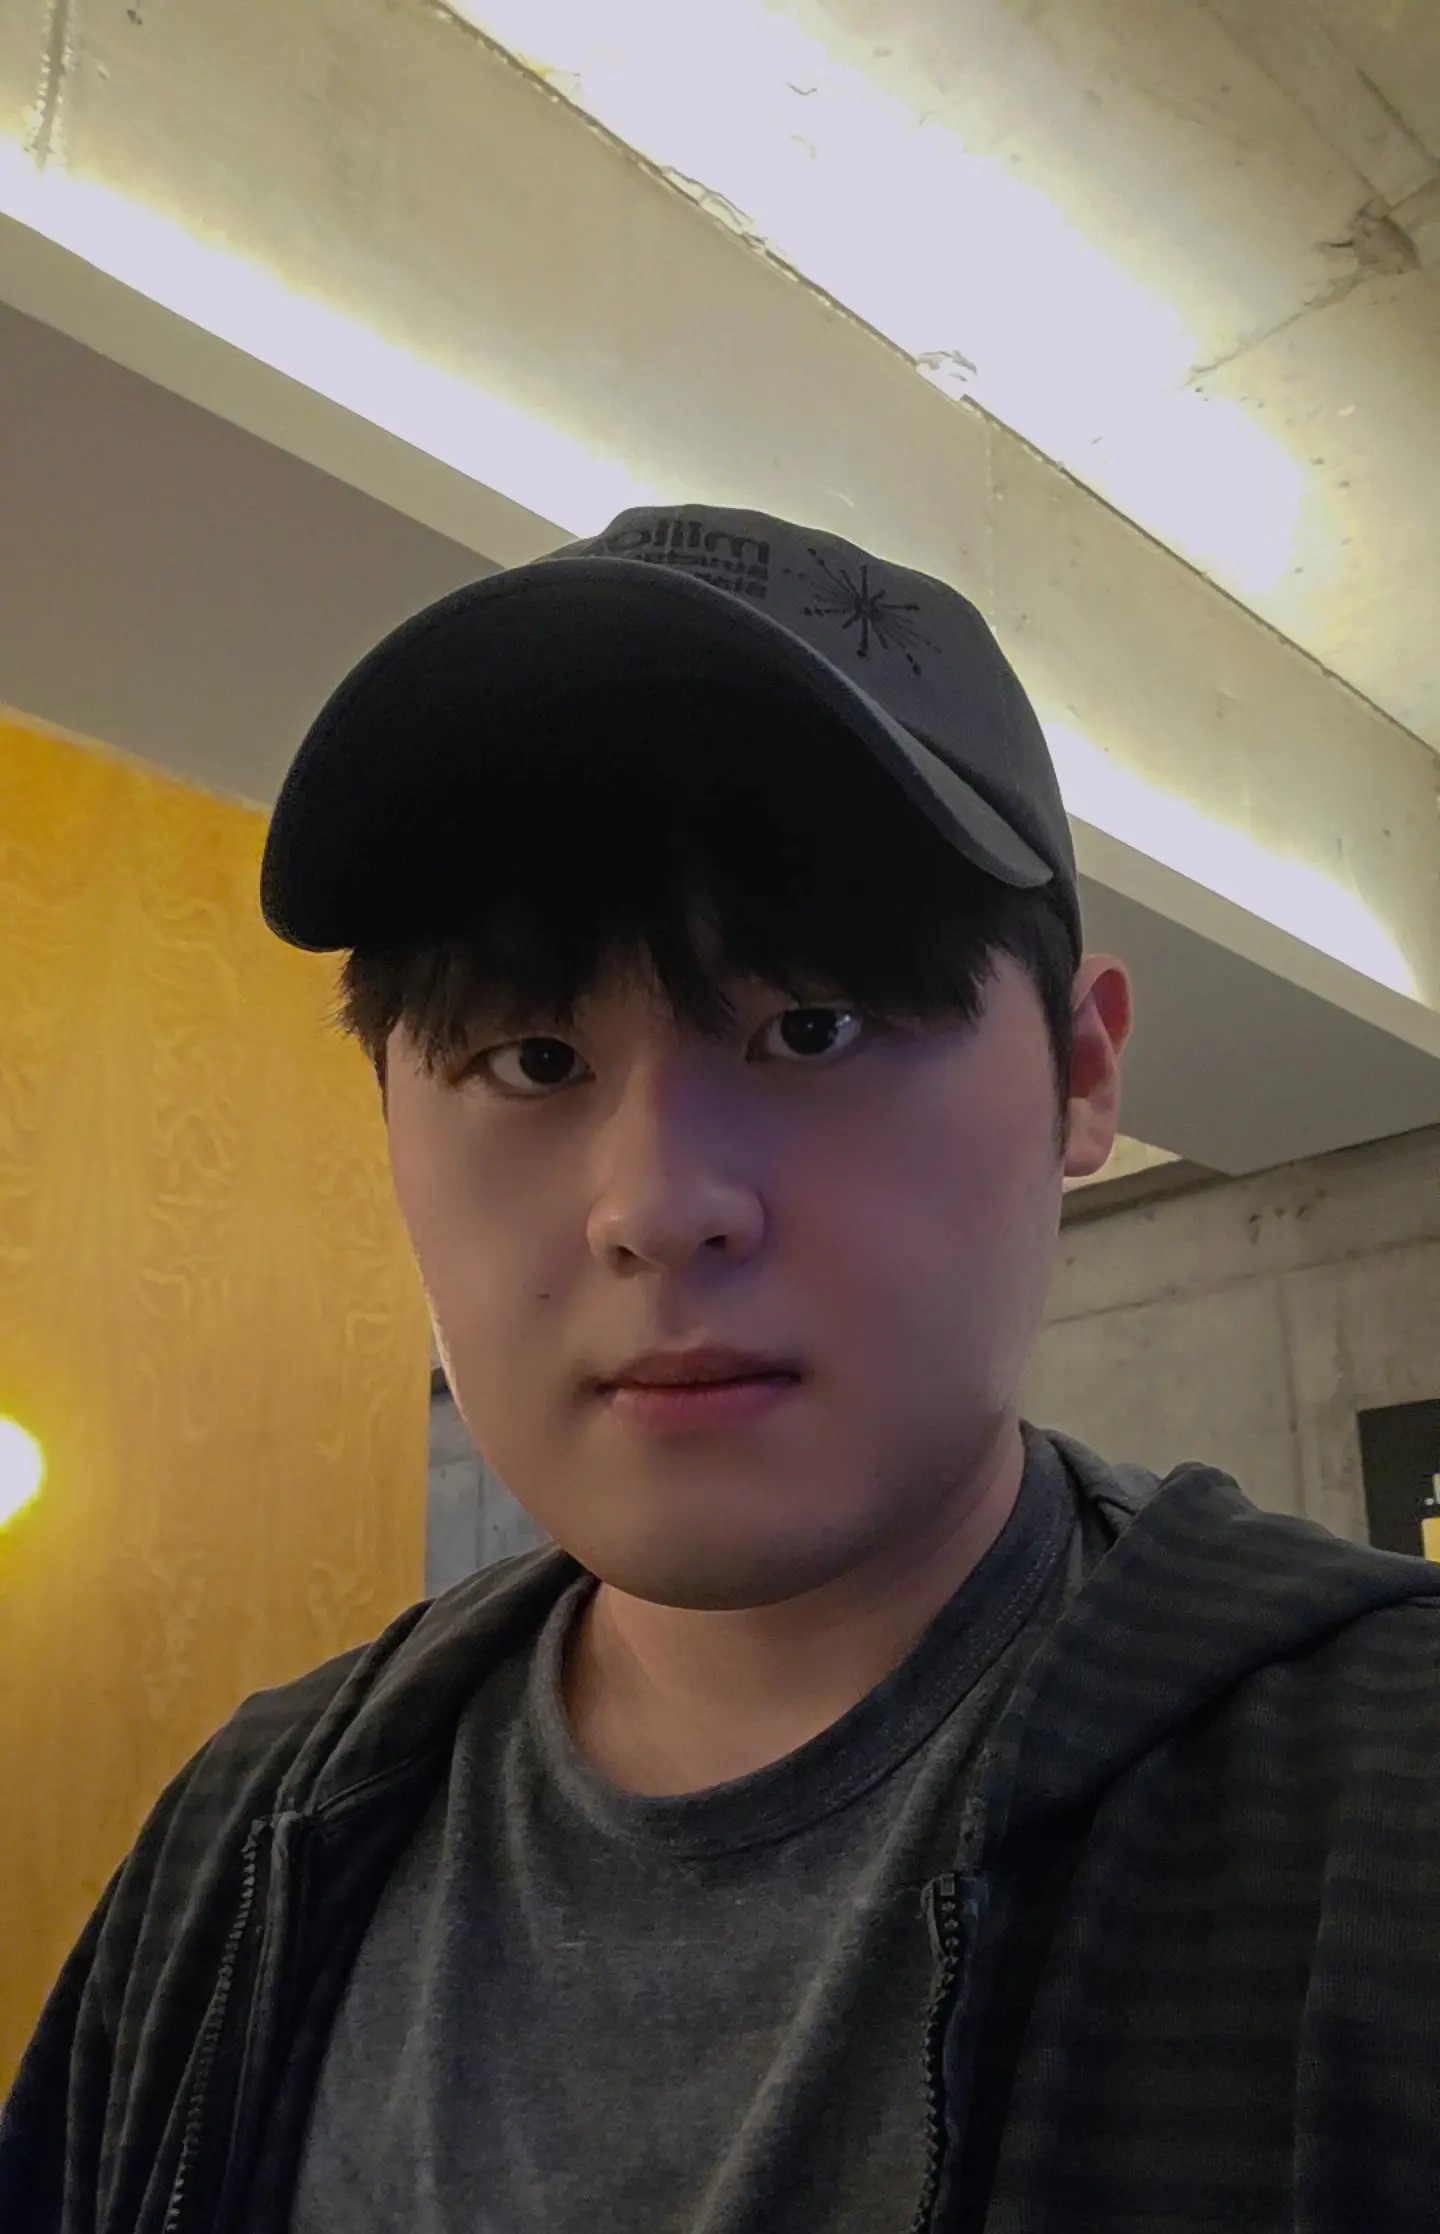
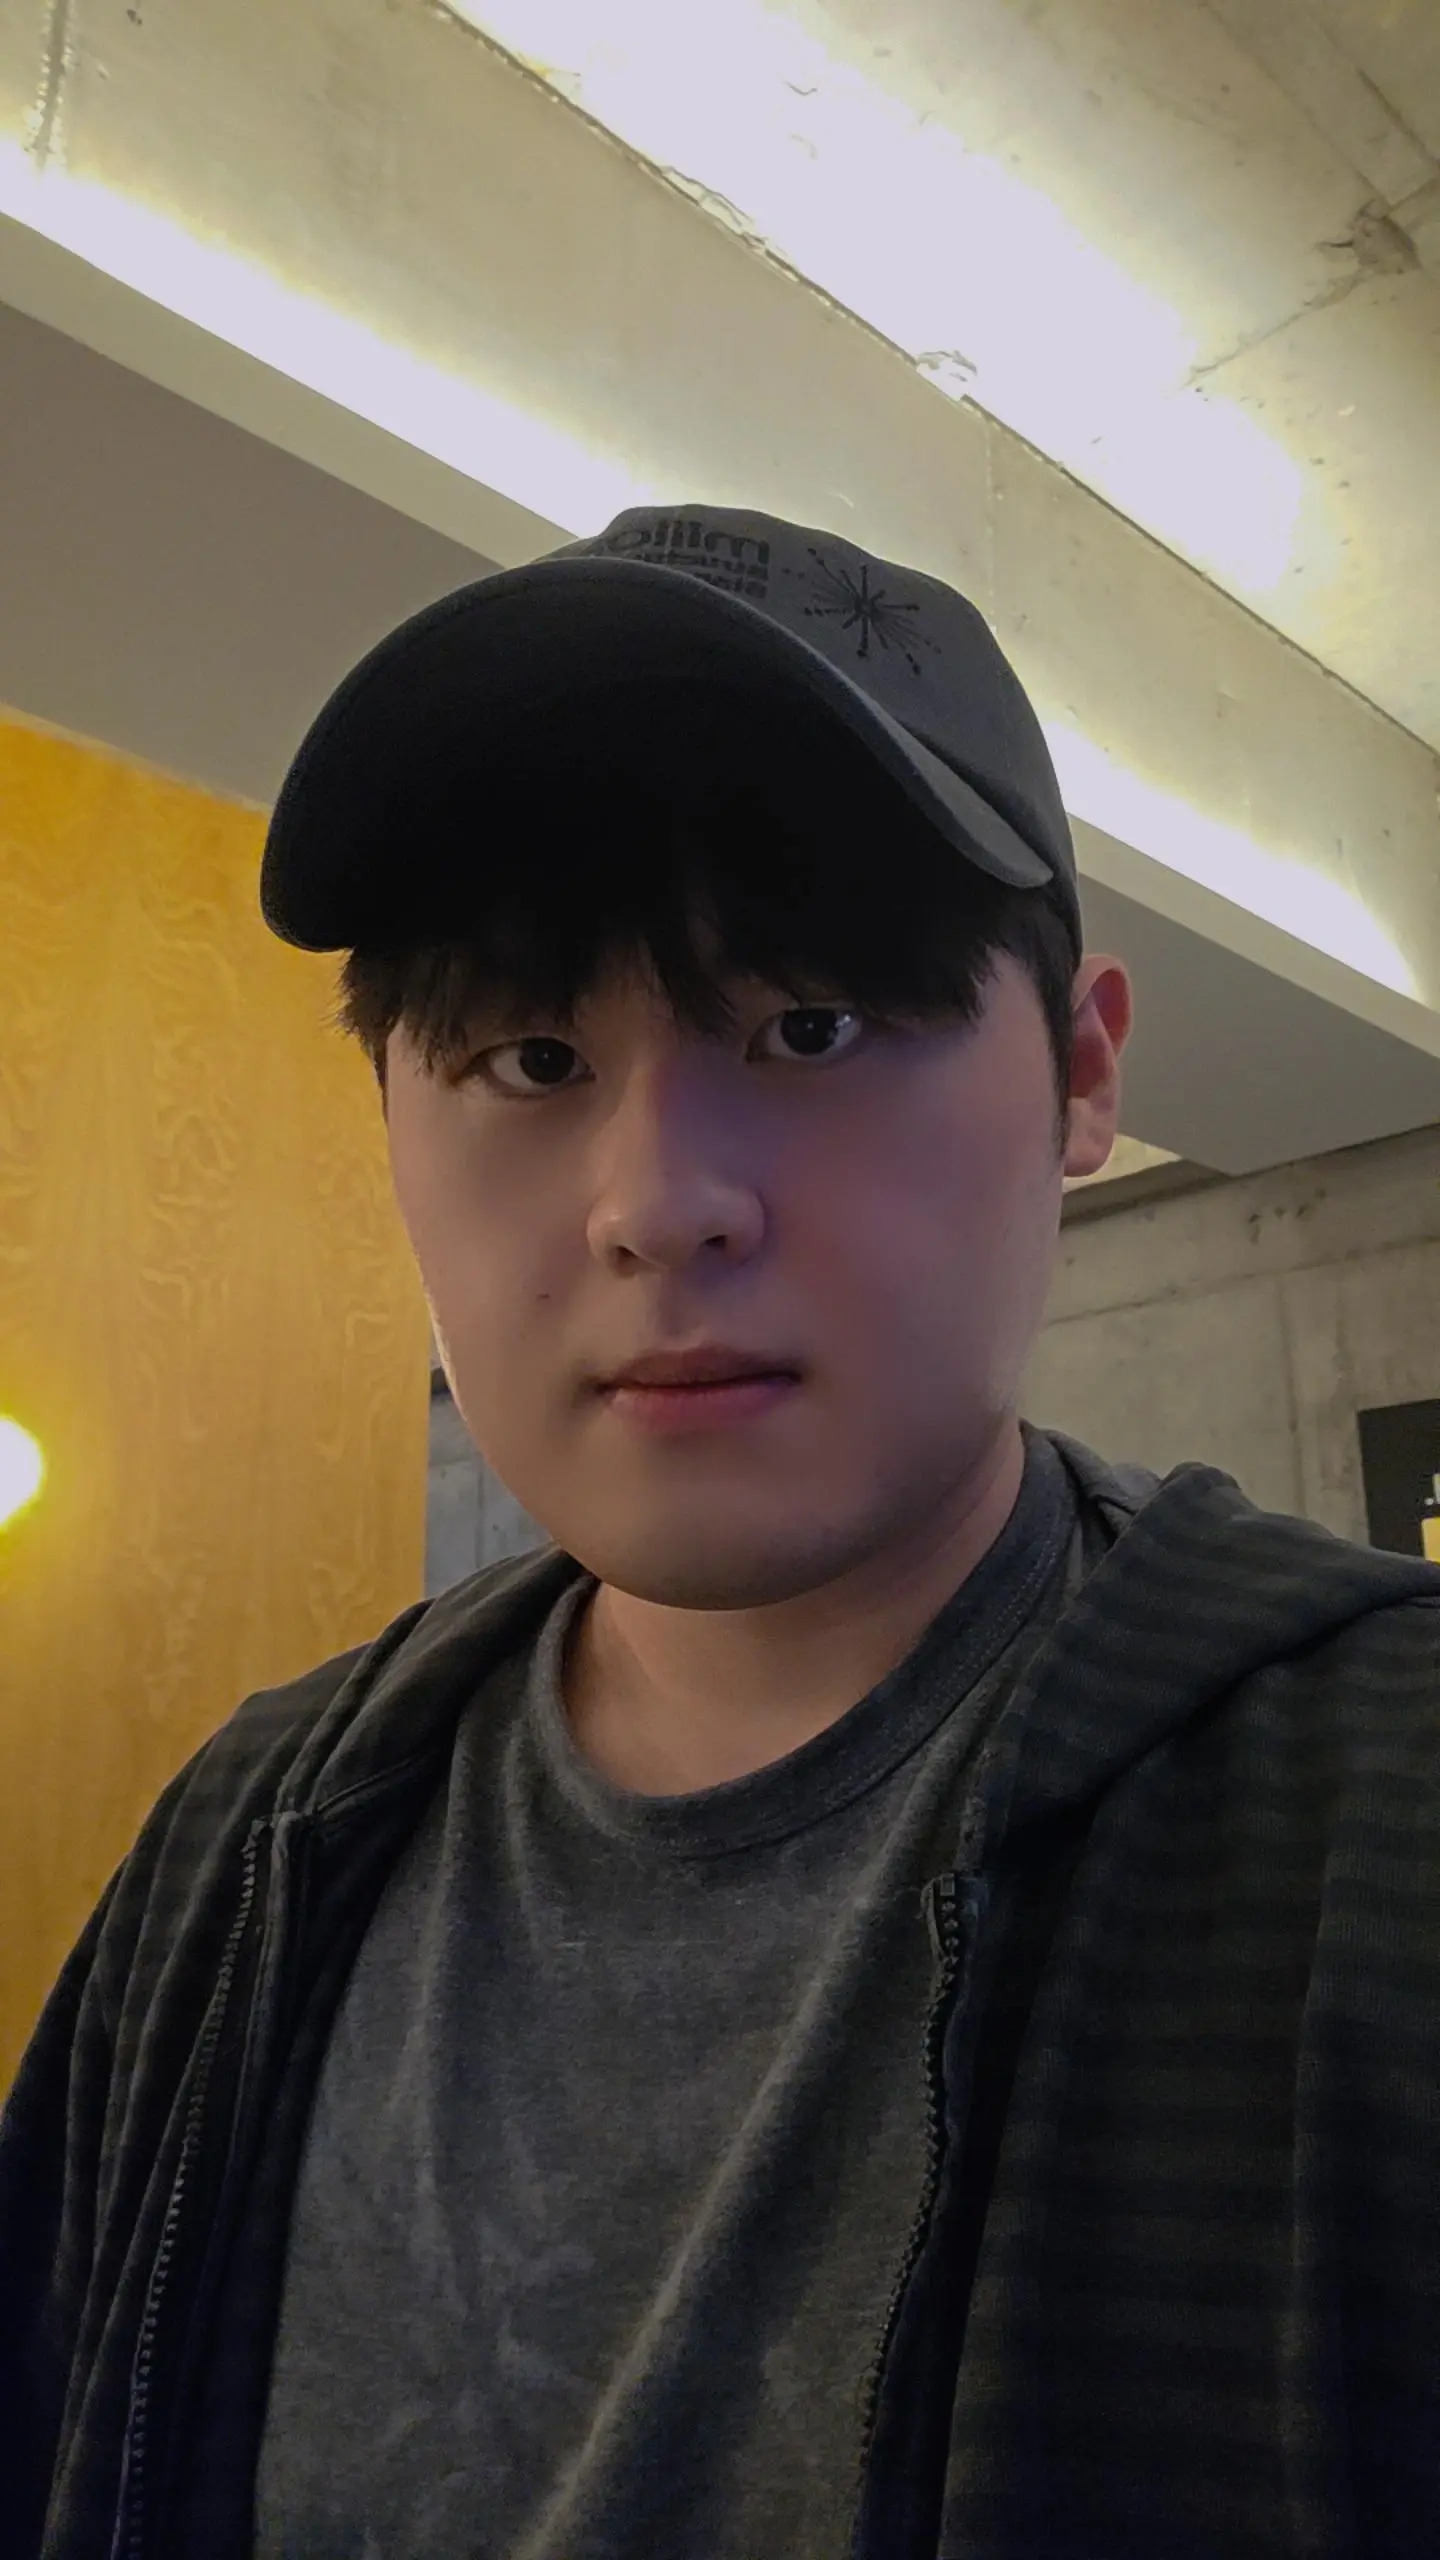
update

diff --git a/assets/css/extended/lab.css b/assets/css/extended/lab.css
@@ -543,6 +543,26 @@ html[data-theme="dark"] .logo-image-dark {
   border: 1px solid var(--border);
 }
 
+.person-photo-iwan {
+  box-sizing: border-box;
+  width: 124px;
+  height: 124px;
+  margin: 0 auto 14px;
+  overflow: hidden;
+  border: 1px solid var(--border);
+  border-radius: 50%;
+  background-color: #c9c2ab;
+}
+
+.person-card .person-photo-iwan img {
+  width: calc(100% - 24px);
+  height: 100%;
+  margin: 0 auto;
+  border: 0;
+  border-radius: 0;
+  object-fit: cover;
+}
+
 .person-info {
   display: flex;
   flex: 1;

diff --git a/content/team.md b/content/team.md
@@ -112,7 +112,7 @@ title: "Team"
 </div>
 </article>
 <article class="person-card">
-<img src="/images/team/iwan-profile.jpg" alt="Iwan Choi profile photo">
+<div class="person-photo-iwan"><img src="/images/team/iwan-profile.jpg" alt="Iwan Choi profile photo"></div>
 <div class="person-info">
 <p class="person-heading"><a class="person-name" href="#">Iwan Choi</a> <a class="person-link" href="#" aria-label="Iwan Choi homepage">🔗</a></p>
 <p class="person-role">Research Intern | Fall 2026</p>
